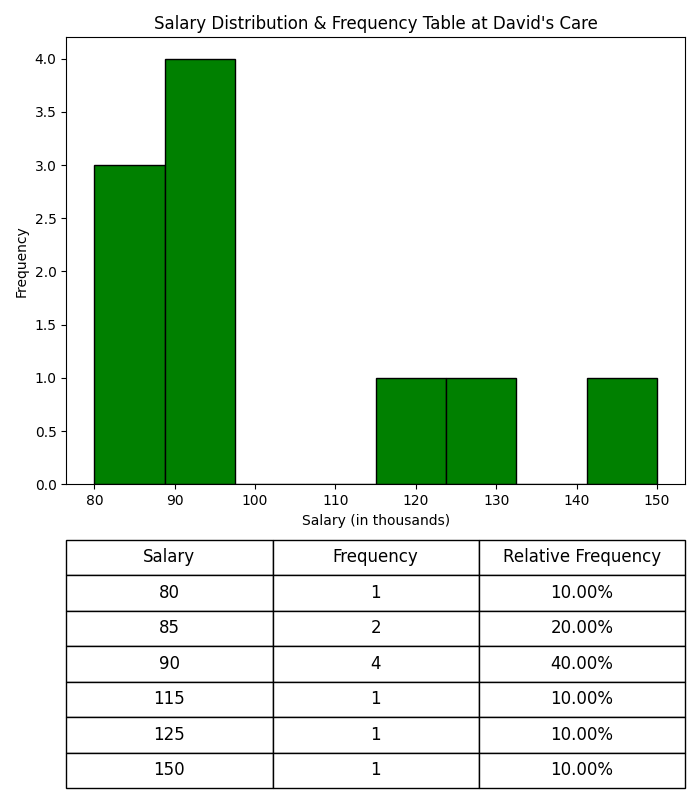
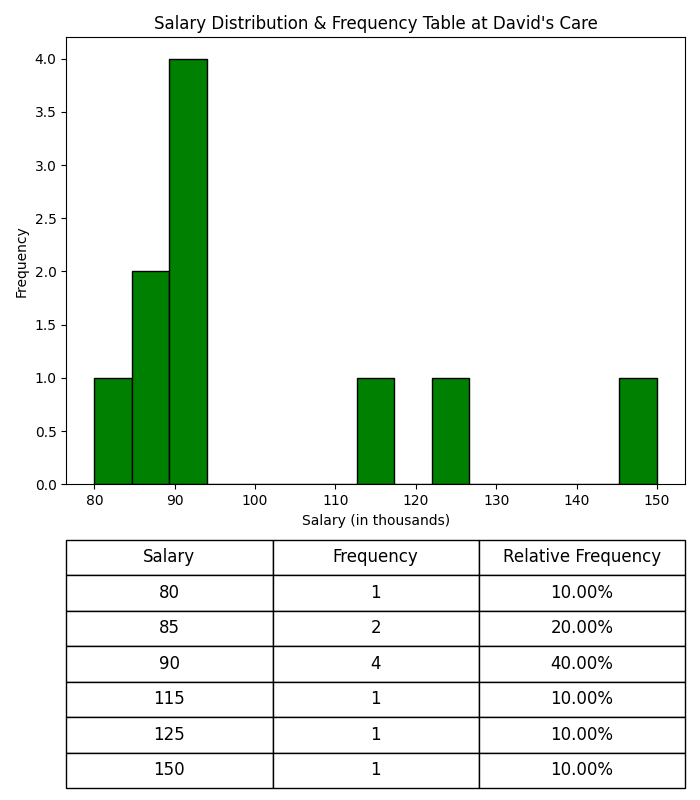
fixed up histogram scale, bin size and amt of bins

Changed region(s): [[0.12, 0.0625, 0.36, 0.625], [0.51, 0.4688, 0.75, 0.625], [0.84, 0.4688, 0.9, 0.625]]

diff --git a/ceo.py b/ceo.py
@@ -52,7 +52,7 @@ relative_frequencies = counts / counts.sum()
 
 # plotting both histogram and frequency table
 fig, (ax_hist, ax_table) = plt.subplots(2, 1, figsize=(7, 8), gridspec_kw={'height_ratios': [3, 1]})
-ax_hist.hist(salaries, bins=8, color='green', edgecolor='black')
+ax_hist.hist(salaries, bins=15, color='green', edgecolor='black')
 ax_hist.set_title("Salary Distribution & Frequency Table at David's Care")
 ax_hist.set_xlabel('Salary (in thousands)')
 ax_hist.set_ylabel('Frequency')
